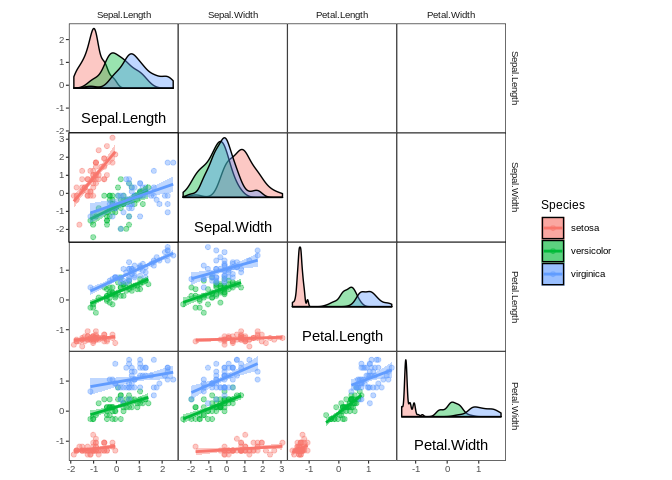
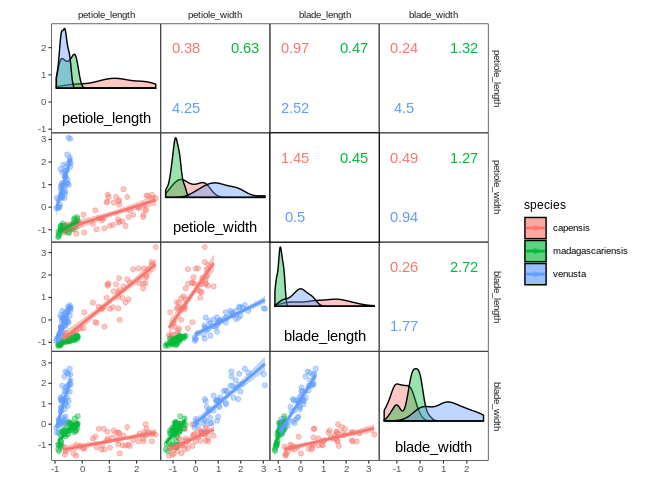
Replace iris by drosera in README file

diff --git a/README.md b/README.md
@@ -15,6 +15,12 @@ exploratory data analysis based on correlation matrices.
 | ------------------------------------------------------------------------------------------------------------------------------------------------------------------------------------------------------------------------------------------------------------------------------------------------------------------------------------------------------------- |
 | This package is in steady development. Whenever I have time, I add or change some features. A somewhat stable version should not be too far away - look out for announcements over here. I will then begin with a regular versioning process. Until the package reaches this stage, please note that features may change or disappear without further notice. |
 
+**Update 2020-07-07:** As of today, the `corrmorant` package will
+replace all uses of the `iris` dataset with the `drosera` dataset, which
+contains a set of (eugenics-free) biometric measurements of three
+African sundew species and is [available as a separate
+data-package](https://github.com/r-link/drosera).
+
 **Update 2020-04-28:** So far, the package seems to work fine with R. v.
 4.0.0. Keep me informed if you notice any unwanted behavior.
 
@@ -59,25 +65,23 @@ plots of correlation matrices. Currently, three different styles are
 available, “light”, “dark” and “blue\_red”:
 
 ``` r
-# correlation plot of the iris data using style = 'light'
-corrmorant(iris, style = "light")
+# correlation plot of the drosera data using style = 'light'
+corrmorant(drosera, style = "light")
 ```
 
 ![](README_files/figure-gfm/unnamed-chunk-3-1.png)<!-- -->
 
 ``` r
 # the "dark" style has a dark background in the diagonal facets
-corrmorant(iris, style = "dark")
+corrmorant(drosera, style = "dark")
 ```
-
-    ## Joining, by = "pos"
 
 ![](README_files/figure-gfm/unnamed-chunk-3-2.png)<!-- -->
 
 ``` r
 # in the "blue_red" style, colors and correlation labels are colored by the strength of
 # correlation
-corrmorant(iris, style = "blue_red")
+corrmorant(drosera, style = "blue_red")
 ```
 
 ![](README_files/figure-gfm/unnamed-chunk-3-3.png)<!-- -->
@@ -98,11 +102,11 @@ stats can generally be called in a simplified form by prefixing their
 name with `lotri_` or `utri_`, e.g. `lotri_corrtext()` and
 `utri_corrtext()`
 
-For example, `corrmorant(iris, style = "light")` can be recreated by the
-following code:
+For example, `corrmorant(drosera, style = "light")` can be recreated by
+the following code:
 
 ``` r
-p1 <- ggcorrm(iris) +
+p1 <- ggcorrm(drosera) +
   lotri(geom_point(alpha = 0.5)) +
   utri_corrtext() +
   dia_names(y_pos = 0.1, size = 3) +
@@ -126,21 +130,20 @@ p1 + lotri(geom_smooth(method = "lm"))
 ![](README_files/figure-gfm/unnamed-chunk-5-1.png)<!-- -->
 
 The horrific fit of these linear regressions results from the fact that
-the iris dataset contains data from three different species. You might
-want to include this information into your plot by plotting the three
-species in different colours, which can easily be achieved by setting
-plot level aesthetics using the `mapping` argument of `ggcorrm()`:
+the `drosera` dataset contains data from three different sundew species.
+You might want to include this information into your plot by plotting
+the three species in different colours, which can easily be achieved by
+setting plot level aesthetics using the `mapping` argument of
+`ggcorrm()`:
 
 ``` r
-ggcorrm(iris, mapping = aes(col = Species, fill = Species)) +
+ggcorrm(drosera, mapping = aes(col = species, fill = species)) +
   lotri(geom_smooth(method = "lm")) +
   lotri(geom_point(alpha = 0.5)) +
   utri_corrtext(nrow = 2, squeeze = 0.6) +
   dia_names(y_pos = 0.1, size = 3) +
   dia_density(lower = 0.4, color = 1)
 ```
-
-    ## `geom_smooth()` using formula 'y ~ x'
 
 ![](README_files/figure-gfm/unnamed-chunk-6-1.png)<!-- -->
 
@@ -230,15 +233,13 @@ reverse axes in the upper triangle).
 lmslope <- function(x, y)  round(coef(lm(x ~ y))[2], 2)
 
 # add slopes using a function
-ggcorrm(iris, mapping = aes(col = Species, fill = Species)) +
+ggcorrm(drosera, mapping = aes(col = species, fill = species)) +
   lotri(geom_point(alpha = 0.4)) +
   lotri(geom_smooth(alpha = 0.4, method = "lm")) +
   utri_funtext(fun = lmslope, squeeze = .6) +
   dia_density(lower = .4, col = 1, alpha = 0.4) +
   dia_names(y_pos = .1)
 ```
-
-    ## `geom_smooth()` using formula 'y ~ x'
 
 ![](README_files/figure-gfm/unnamed-chunk-10-1.png)<!-- -->
 
@@ -252,7 +253,7 @@ lambda expression (a formula containing `.x` and `.y`) in the upper and
 a quosure in the lower triangle:
 
 ``` r
-ggcorrm(iris, aes(col = .corr), rescale = "as_is") +
+ggcorrm(drosera, aes(col = .corr), rescale = "as_is") +
   utri_funtext(fun = ~ round(cor(.x, .y), 2)) +
   lotri_funtext(fun = quo(round(cor(x, y), 2))) +
   dia_names(y_pos = .5) +
